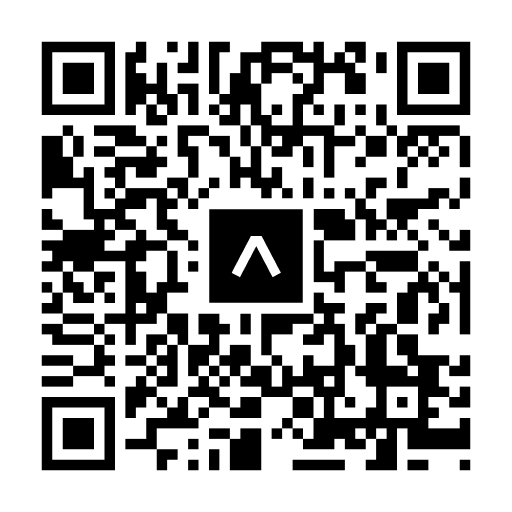
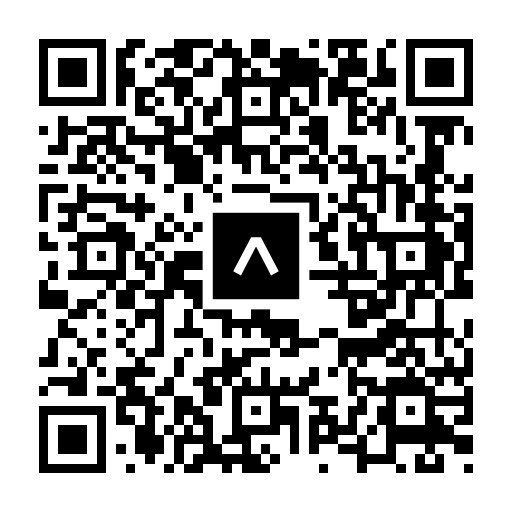
fix expo links/qr code

diff --git a/README.md b/README.md
@@ -5,10 +5,12 @@
 #
 Expo application for LocalToMe, web application repo is [located here](https://github.com/phoenixlai833/LocalToMe).
 <br/>
+Can view the [Expo Project here](https://expo.dev/@localtome/LocalToMe).
+<br/>
 Learn more about LocalToMe in the [wiki](https://github.com/phoenixlai833/LocalToMe/wiki)!
 ##
 Can open expo application by opening expo go with this link: 
-_exp://exp.host/@Pho86/LocalToMe_ 
+_exp://exp.host/@localtome/LocalToMe?release-channel=default_ 
 <p>Or by opening this qr code with the camera or expo app qr code scanner</p>
 <div align="center">
 <img width="250" height="250" alt="expo qr code" src="/assets/expo_qr_code.png"/>
